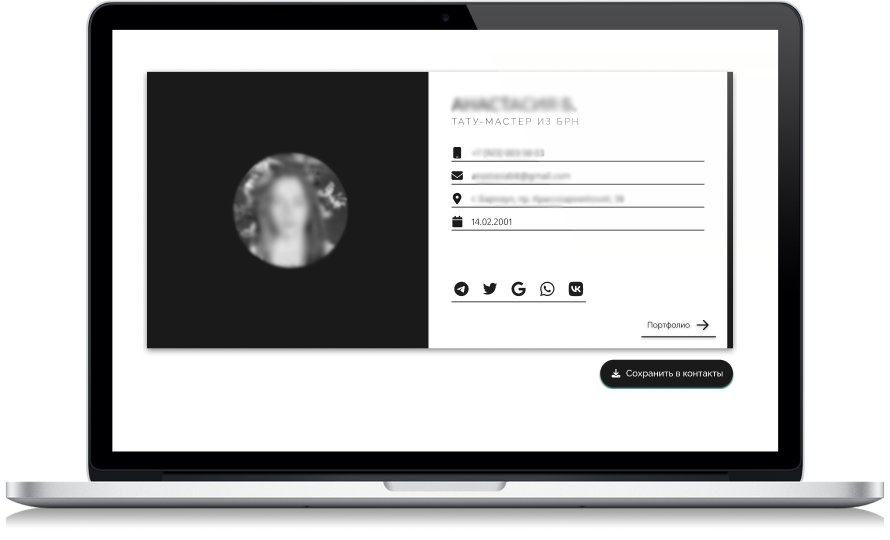
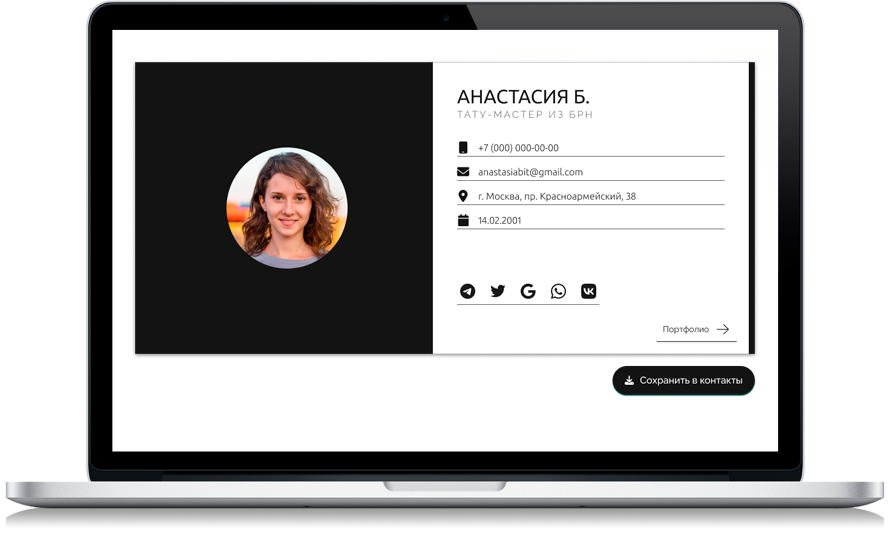
new porfolio img

Changed region(s): [[0.1517, 0.0889, 0.8494, 0.7407], [0.2427, 0.2667, 0.3944, 0.5037]]

diff --git a/upcardapi/settings.py b/upcardapi/settings.py
@@ -105,14 +105,14 @@ DATABASES = {
     }
 }
 
-DATABASES = {
-    'default': {
-        'ENGINE': 'django.db.backends.mysql',
-        'OPTIONS': {
-            'read_default_file': f'{BASE_DIR}/my.cnf',
-        },
-    }
-}
+# DATABASES = {
+#     'default': {
+#         'ENGINE': 'django.db.backends.mysql',
+#         'OPTIONS': {
+#             'read_default_file': f'{BASE_DIR}/my.cnf',
+#         },
+#     }
+# }
 
 
 # Password validation
